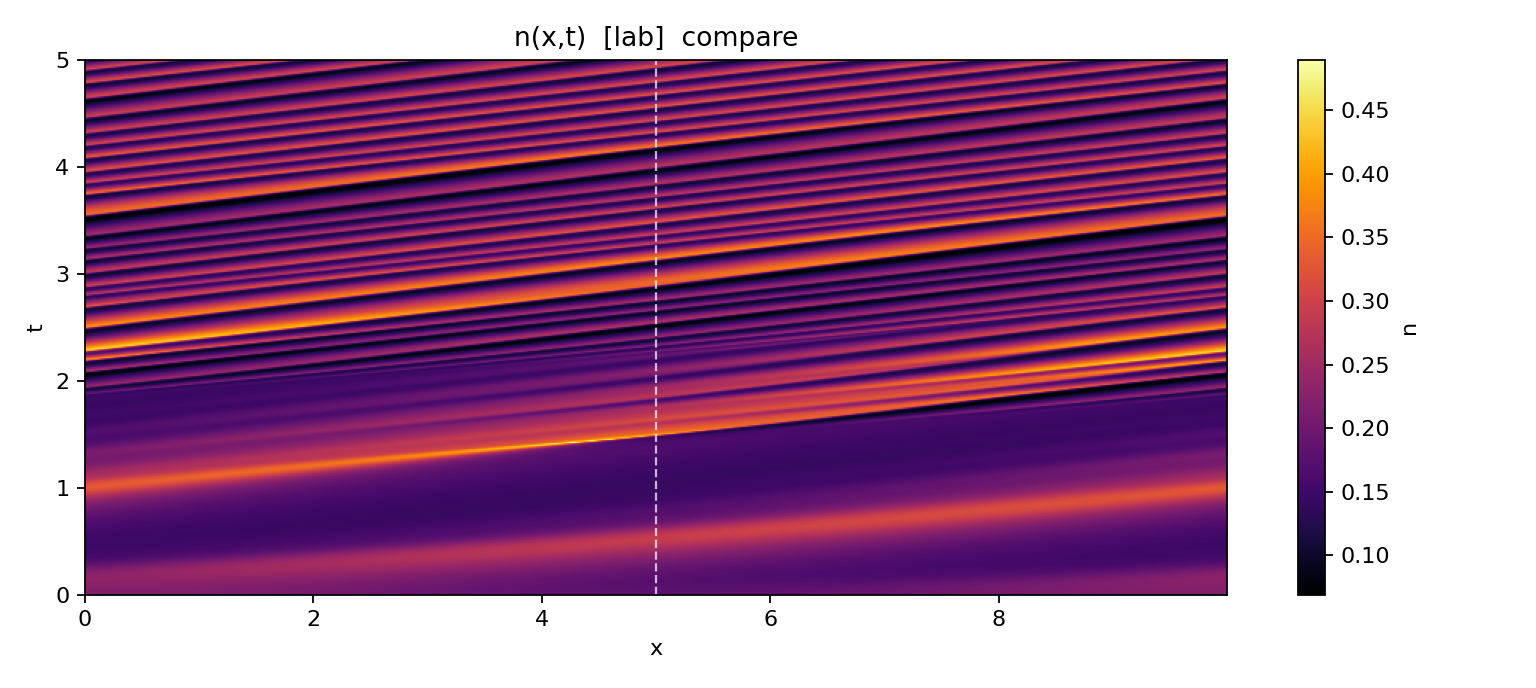
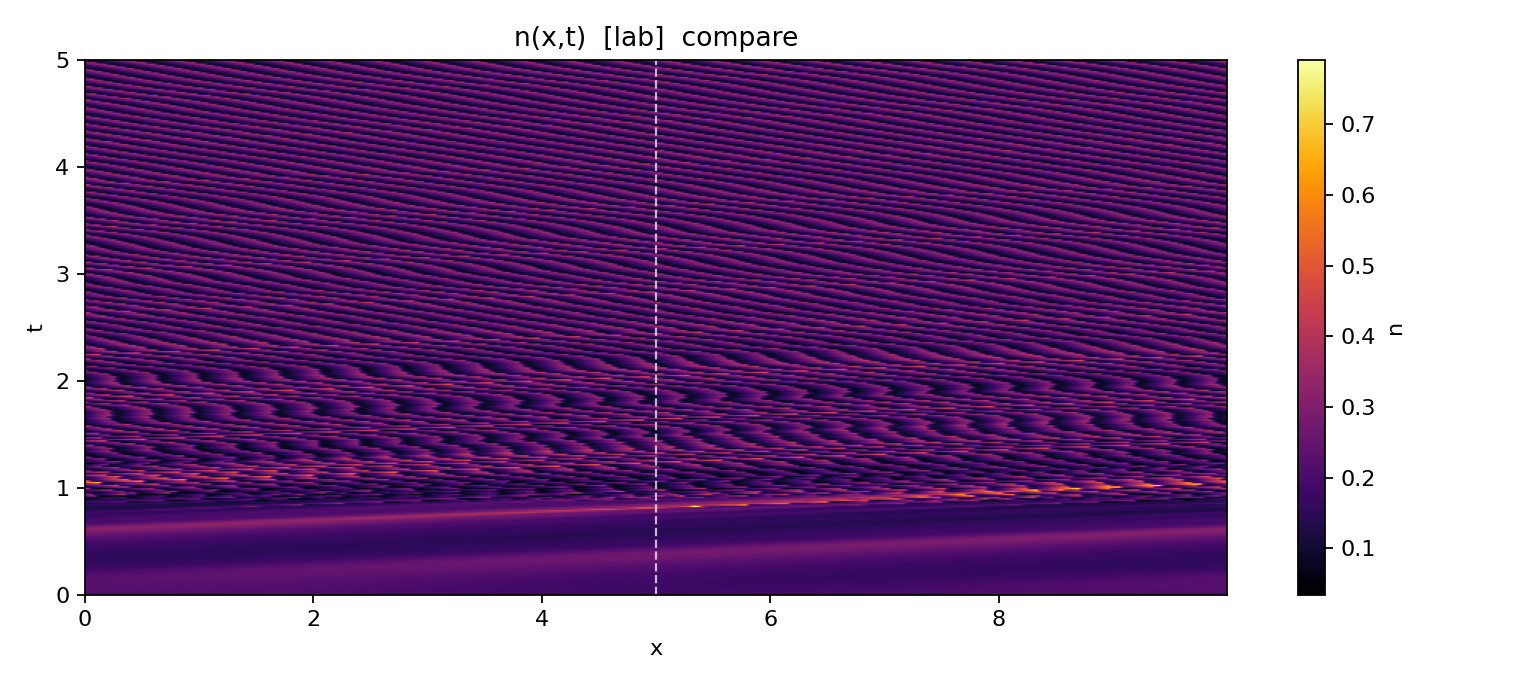
Increased the E_{base}

diff --git a/mass injection/mass injection.py b/mass injection/mass injection.py
@@ -135,7 +135,7 @@ def S_injection(n, nbar, Jx, gamma):
 
 def E_base_from_drift(nbar):
     # print(par.m * par.u_d * np.mean(Gamma(nbar)) /0.8187307530779819*40.0)
-    return par.m * par.u_d * np.mean(Gamma(nbar)) / par.e /0.8187307530779819*40.0
+    return par.m * par.u_d * np.mean(Gamma(nbar)) / par.e 
 
 def rhs(t, y, E_base):
     N = par.Nx
@@ -228,10 +228,10 @@ def run_once(tag="seed_mode"):
     os.makedirs(par.outdir, exist_ok=True)
 
     n0, p0 = initial_fields()
-    # E_base = E_base_from_drift(nbar_profile())# if par.maintain_drift in ("field","feedback") else 0.0
-
+    E_base = E_base_from_drift(nbar_profile())# if par.maintain_drift in ("field","feedback") else 0.0
+    print(E_base)
     # print(E_base)
-    E_base = 15.0#10.0
+    # E_base = 15.0#10.0
 
     y0 = np.concatenate([n0, p0])
     t_eval = np.linspace(0.0, par.t_final, par.n_save)
